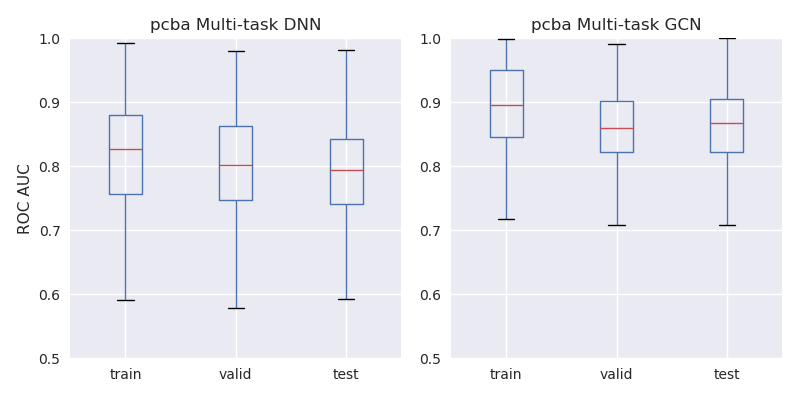
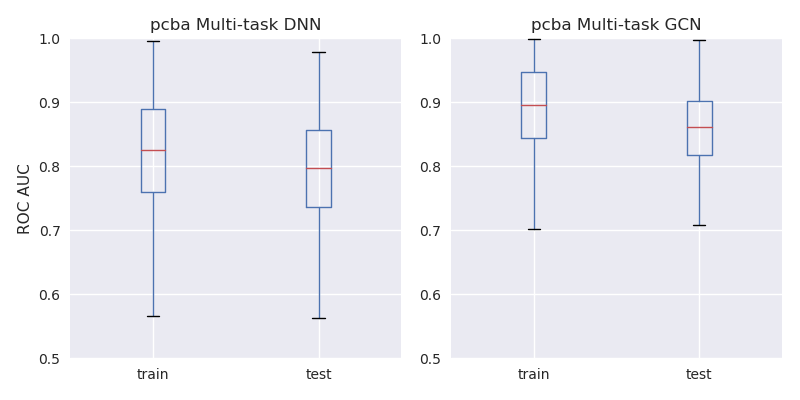
update pcba plot
Former-commit-id: 70e81dfe01a4724ea450f9064e0edbe9065826bf
Former-commit-id: c44b26303abd4befbff2c6d8c69f98f4131f228b
Former-commit-id: 7fa0a2d806350ea81dfb776b6f2a96a26953538b

diff --git a/plot.py b/plot.py
@@ -6,7 +6,7 @@ import os
 sns.set()
 
 def main():
-    for dataset in ['chembl', 'pcba', 'tox21', 'delaney']:
+    for dataset in ['pcba', 'tox21', 'delaney']:
         plt.figure(figsize=(8,4))
         for i, method in enumerate(['tf_models', 'graph_conv'], 1):  
             filename = os.path.join('log', dataset, method) + '.pkl'

diff --git a/README.md b/README.md
@@ -20,21 +20,6 @@ Usage
     
     ...
      
-    ChEMBL dataset
-    Multi-task DNN
-    Train scores: {'mean-pearson_r2_score': 0.82877779263621998}
-    Validation scores: {'mean-pearson_r2_score': 0.5645538273513665}
-    Test scores: {'mean-pearson_r2_score': 0.58975850295561705}
-    Train time: 46.7m
-    Eval time: 0.7m
-    Graph-Convolution
-    Train scores: {'mean-pearson_r2_score': 0.15552323865084641}
-    Validation scores: {'mean-pearson_r2_score': 0.23971861668422137}
-    Test scores: {'mean-pearson_r2_score': 0.26573330538498841}
-    Train time: 13.5m
-    Eval time: 0.6m
-
-![chembl plot](https://raw.githubusercontent.com/ktaneishi/dlvs/master/log/chembl.png)
 
     PCBA dataset
     Multi-task DNN
